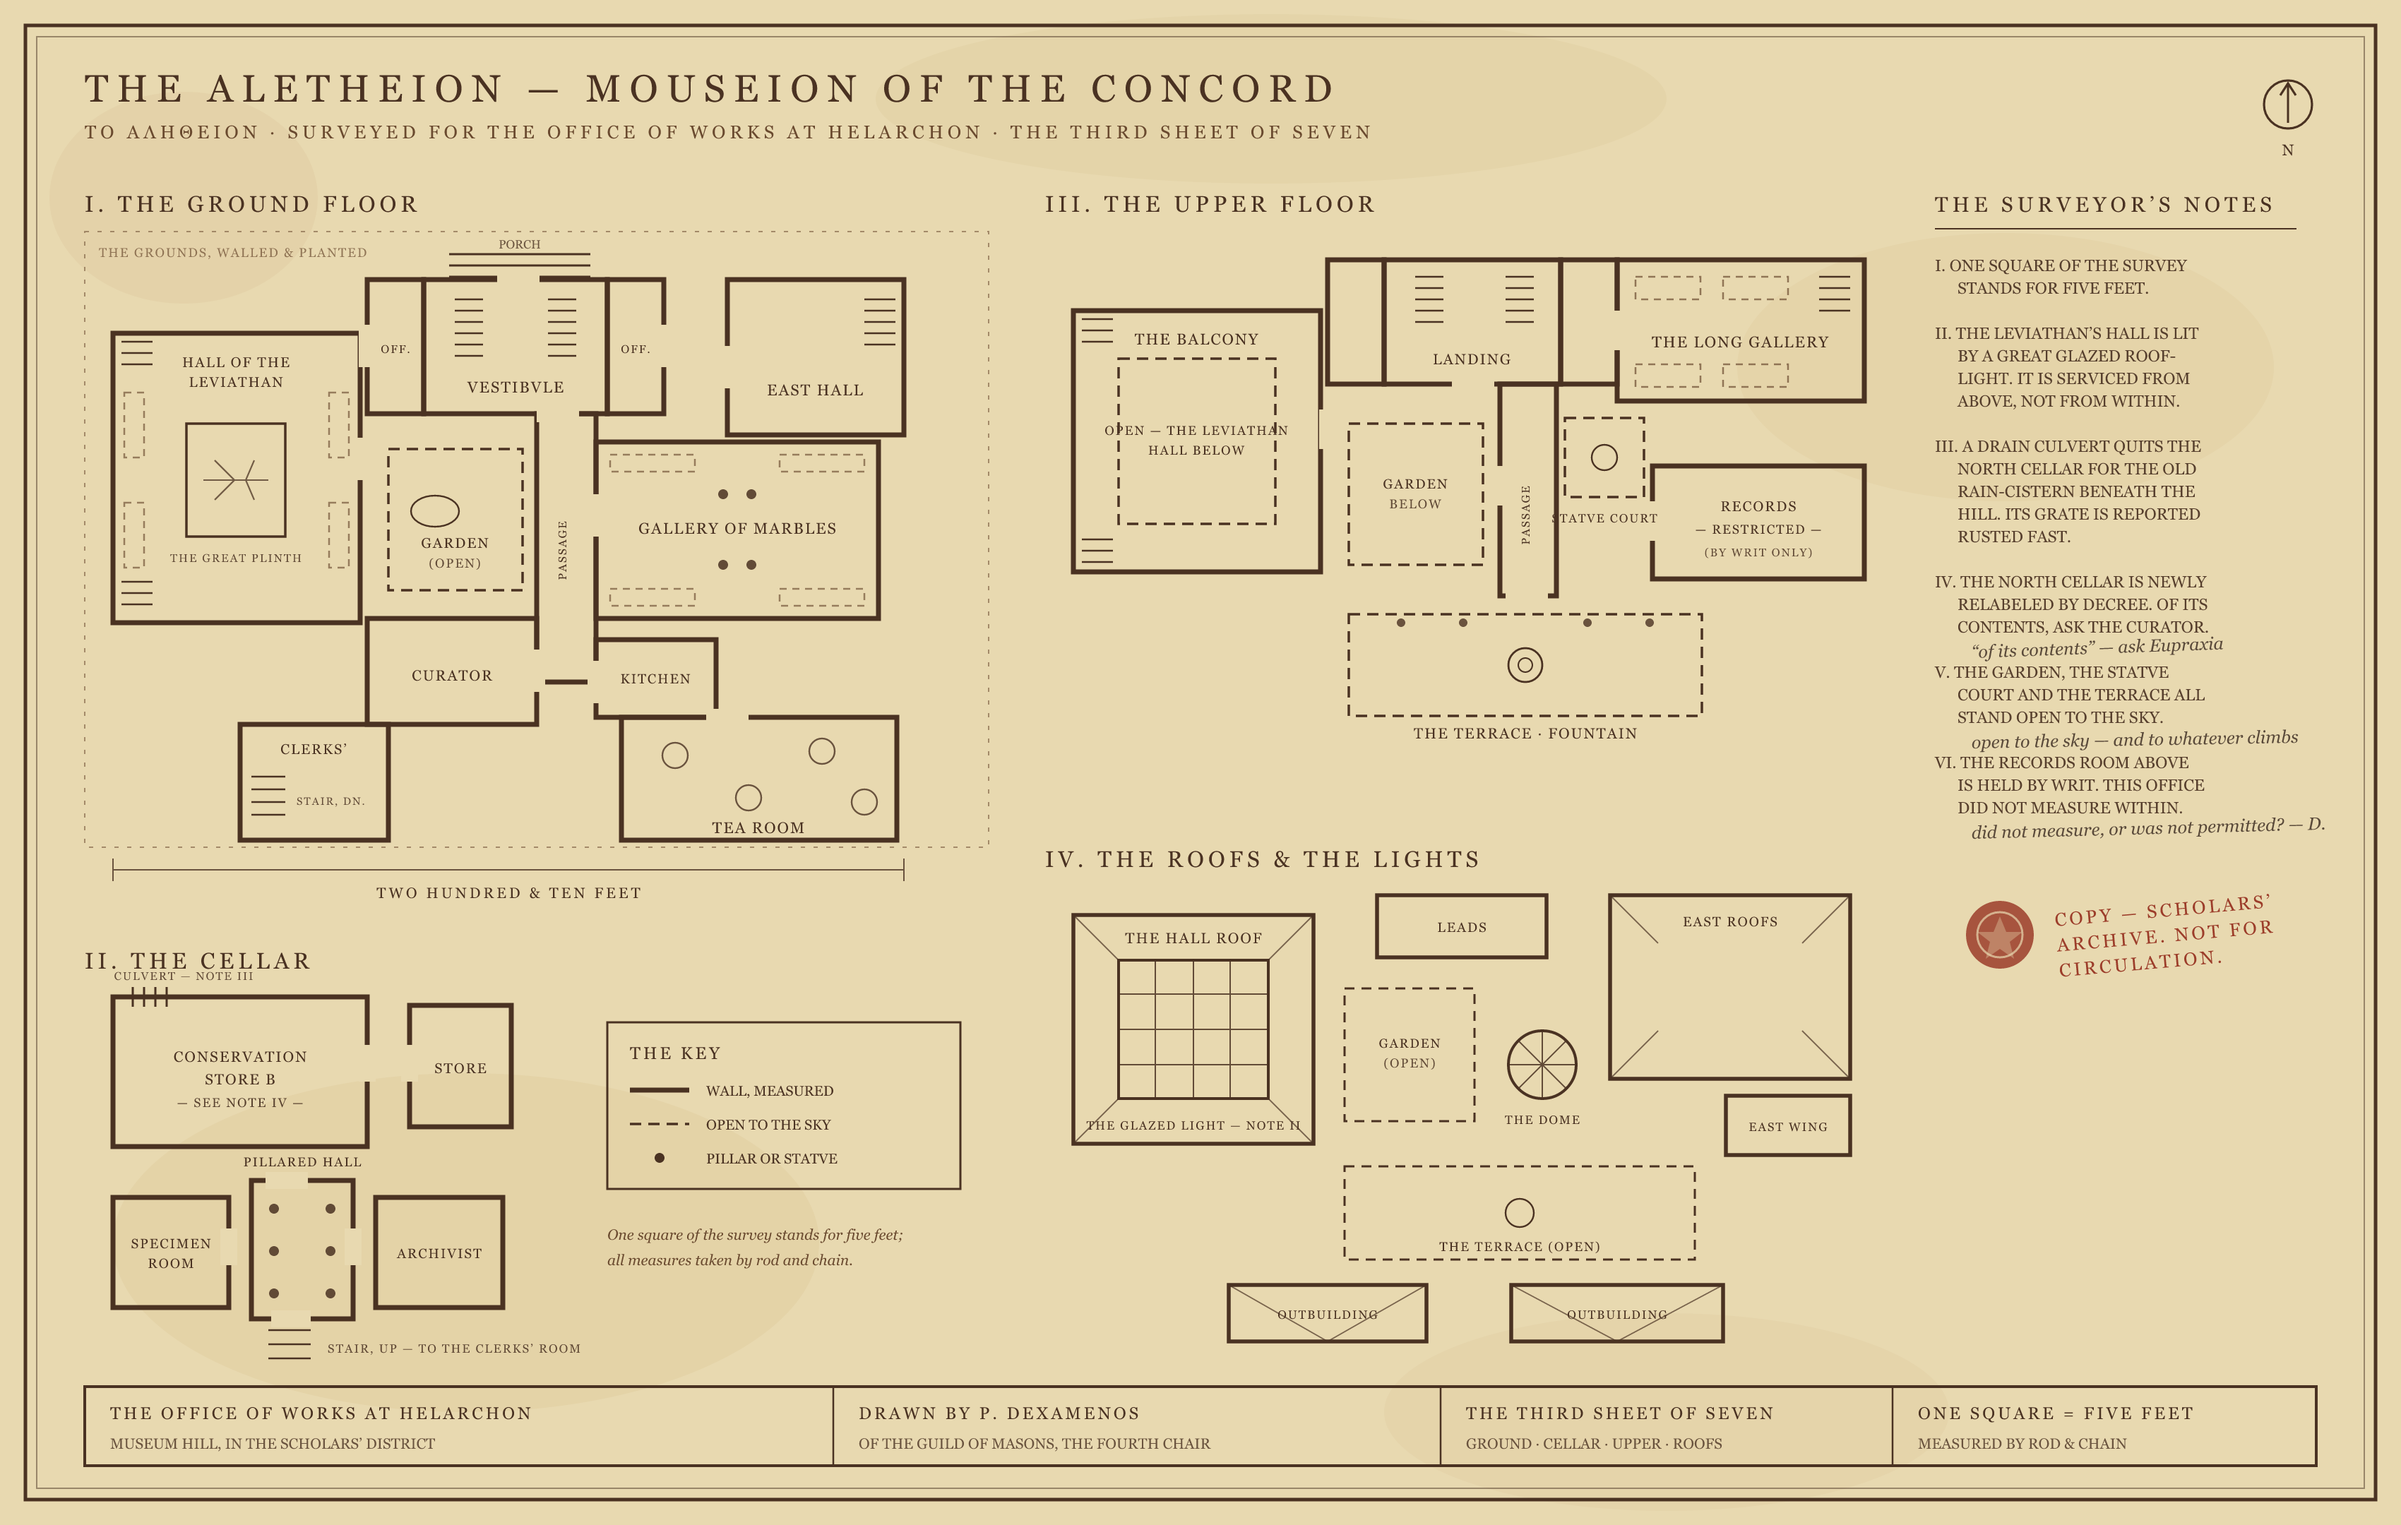
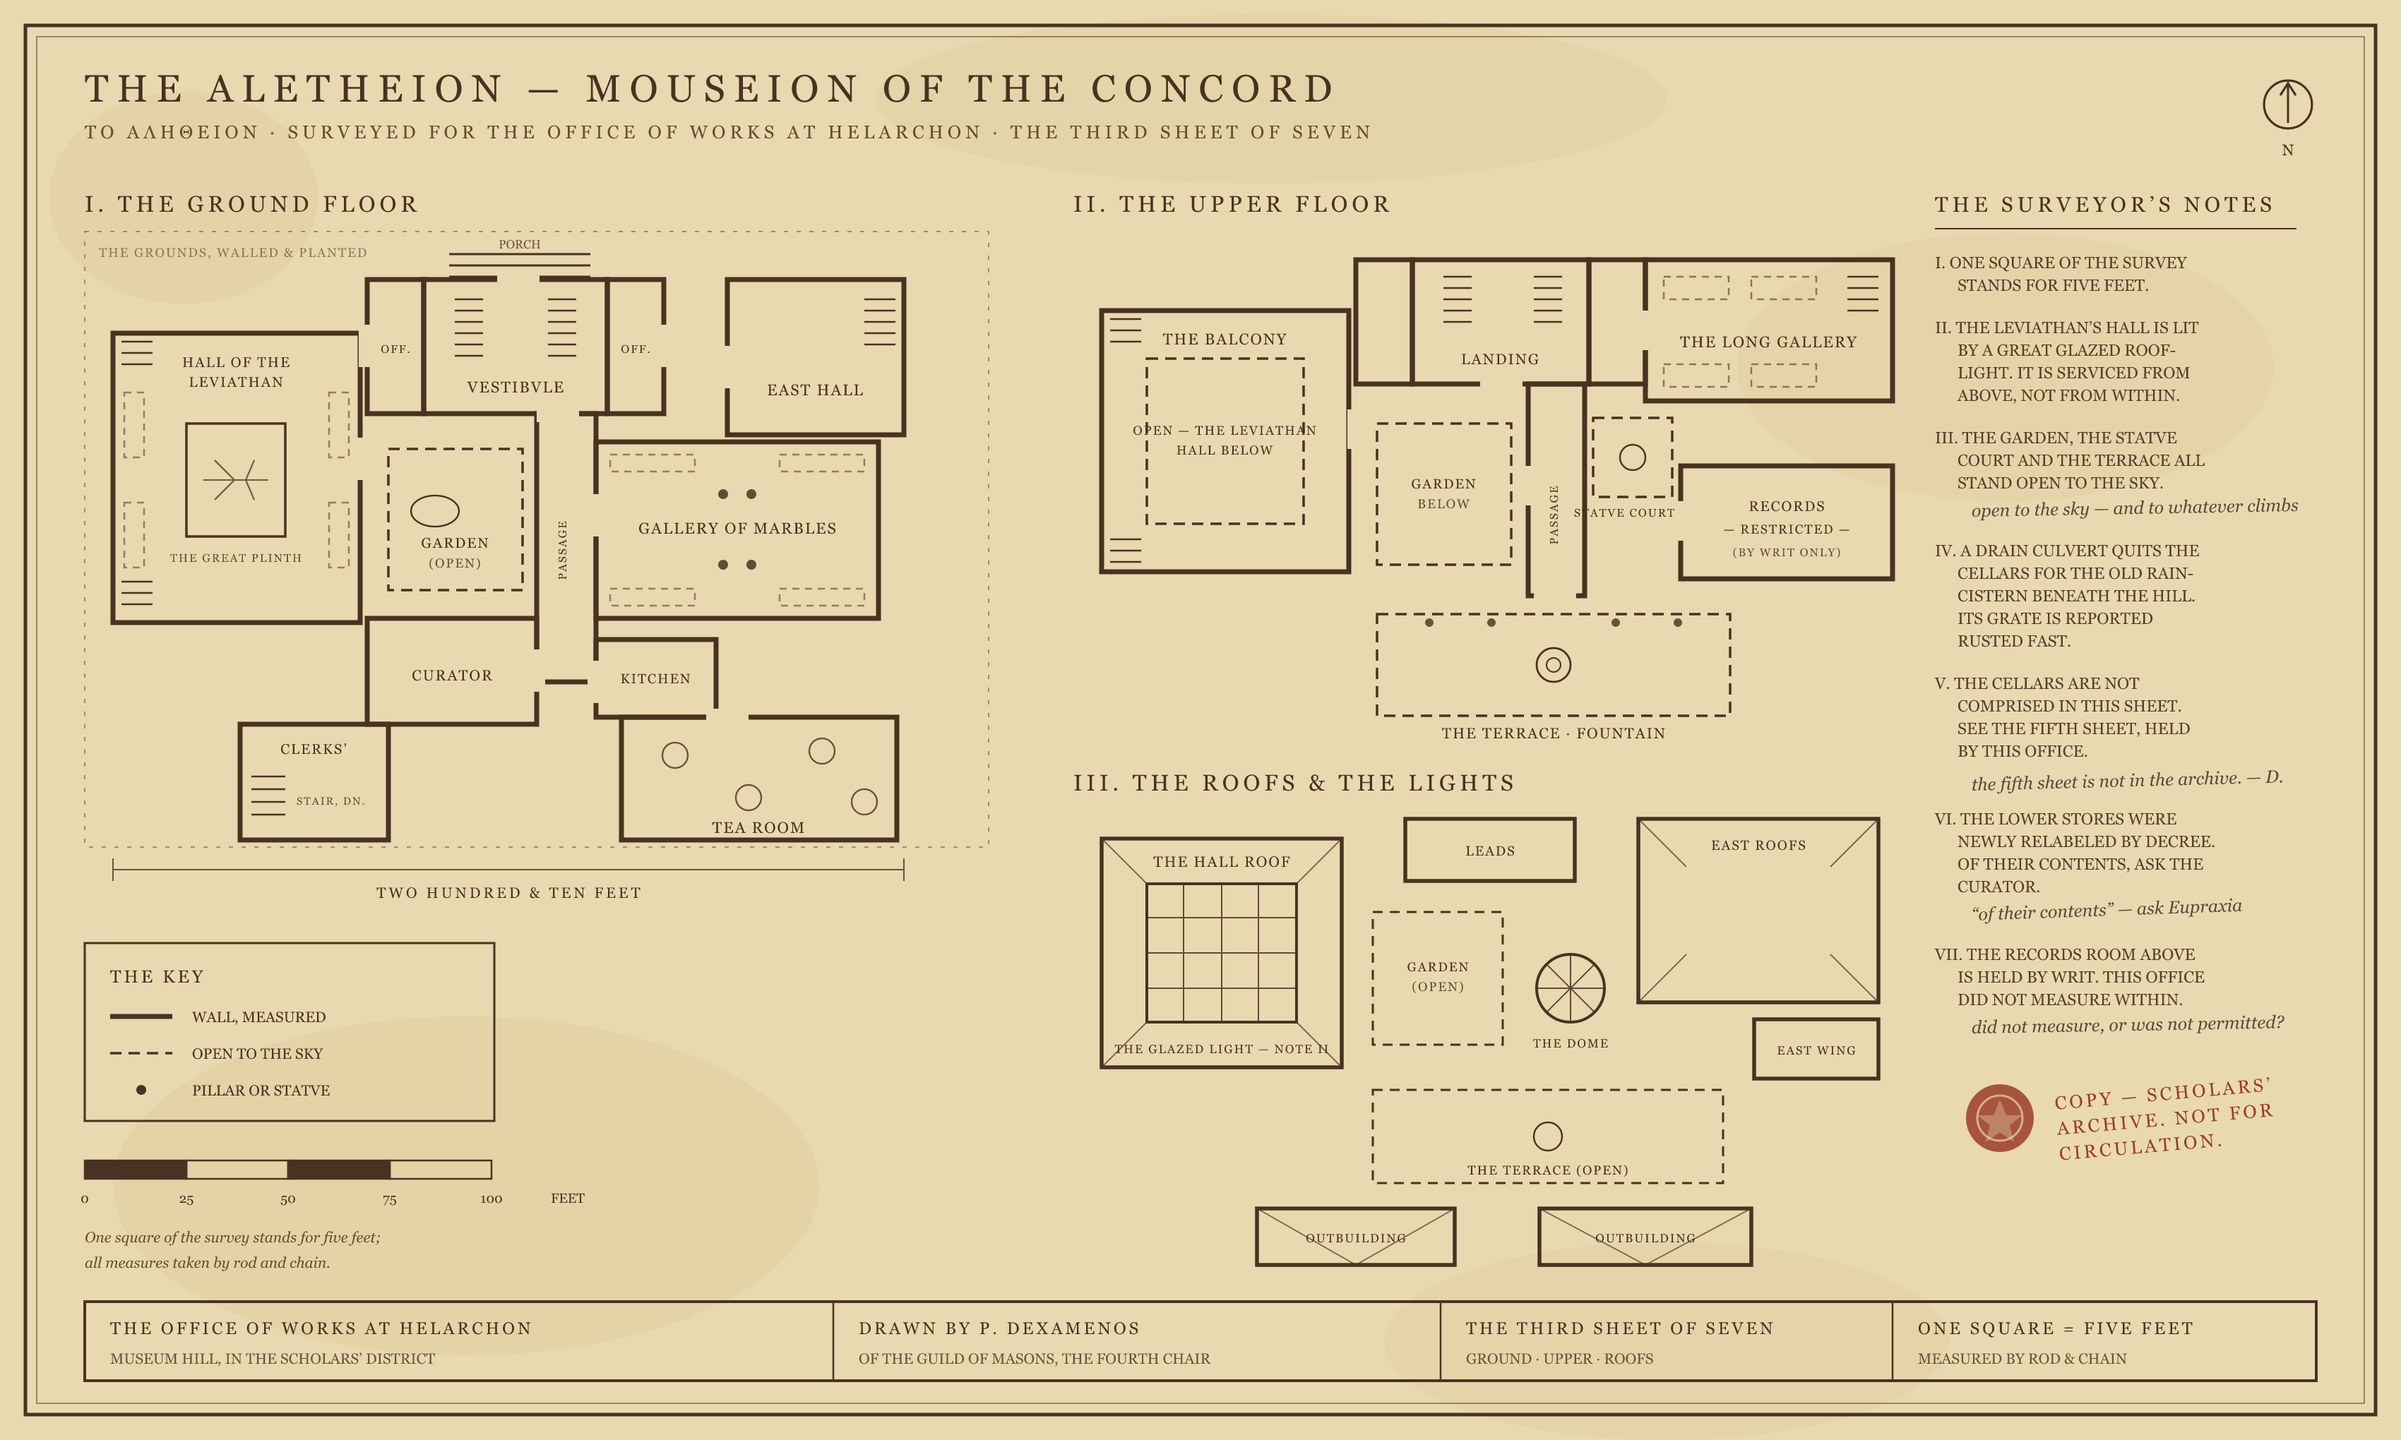
Drop the cellar from the survey prop
The sheet now shows only ground floor, upper floor and roofs. The
cellars are named but withheld: Note V sends the reader to a fifth
sheet, and the margin answers that the fifth sheet is not in the
archive. Players learn a lower level exists and that its plan was
suppressed — which is stronger than an empty room, and puts the
artifact on no map they can obtain.

A scale bar fills the freed space; vertical flow reworked so nothing
touches the title block.

diff --git a/docs/oneshots/the-aletheion-heist.md b/docs/oneshots/the-aletheion-heist.md
@@ -255,12 +255,12 @@ The SVG above is the DM's schematic. For a fully illustrated map, these professi
 
 [`the-aletheion-blueprint.svg`](the-aletheion-blueprint.svg) (also as [PNG](the-aletheion-blueprint.png) and [printable PDF](the-aletheion-blueprint.pdf)) — an in-world **survey sheet** of the museum (Office of Works, "the third sheet of seven"), to hand the players when they start planning.
 
-**It is traced from the Knight at the Museum layout**, so it matches the battle maps you'll actually run — all four levels: cellar, ground floor, upper floor, and the roofs. Hand it over and the plan they make is a plan that *works* on the table. It is honest about structure and **dishonest about contents**, exactly as a censored survey would be:
+**It is traced from the Knight at the Museum layout**, so it matches the battle maps you'll actually run: ground floor, upper floor, and the roofs. Hand it over and the plan they make is a plan that *works* on the table. It is honest about structure and **dishonest about contents**, exactly as a censored survey would be:
 
-- The vault room is only **"Conservation Store B — see Note IV,"** an empty rectangle in the north cellar. The Seal, the plinth, and the Weeping Bronze appear nowhere. *Where the artifact sits is deliberately not on this sheet.*
-- The upper Records room is **"Restricted — by writ only,"** and Note VI admits the surveyor never measured inside it.
-- The useful truths are all there, in the margins: the Leviathan hall's **great glazed roof-light** is "serviced from above, not from within" (that's route C, and it's drawn in full on the roofs plan); a **drain culvert** quits the north cellar for the old rain-cistern, its grate "rusted fast" (route B); and the garden, statue court, and terrace all "stand open to the sky."
-- A later hand has scrawled the rest: *"of its contents" — ask Eupraxia*, *open to the sky — and to whatever climbs*, and against Note VI: *did not measure, or was not permitted? — D.*
+- **The cellars are not on the sheet at all.** Note V states they are "not comprised in this sheet — see the fifth sheet, held by this office," and a later hand answers: *the fifth sheet is not in the archive. — D.* The players learn a lower level exists, that its plan has been withheld, and nothing else. *Where the artifact sits is on no map they can get.*
+- Note VI adds that **"the lower stores were newly relabeled by decree; of their contents, ask the Curator"** — margin note: *ask Eupraxia*. That's the thread that leads to her desk drawer.
+- The upper Records room is **"Restricted — by writ only,"** and Note VII admits the surveyor never measured inside it: *did not measure, or was not permitted?*
+- The ways in are all there for a crew that reads carefully: the Leviathan hall's **great glazed roof-light** is "serviced from above, not from within" (route C — drawn pane by pane on the roofs plan); a **drain culvert quits the cellars** for the old rain-cistern, grate "rusted fast" (route B); and the garden, statue court, and terrace all "stand open to the sky" — annotated *and to whatever climbs*.
 
 **How they get it:** Old Kyros sells the sheet at the Night Agora for 75 gp (it's where the Tenebral Covenant's floor plans come from); Dexios can be talked into "losing" it for an evening; or it's sitting in Curator Eupraxia's office drawer next to the uncensored labels.
 
